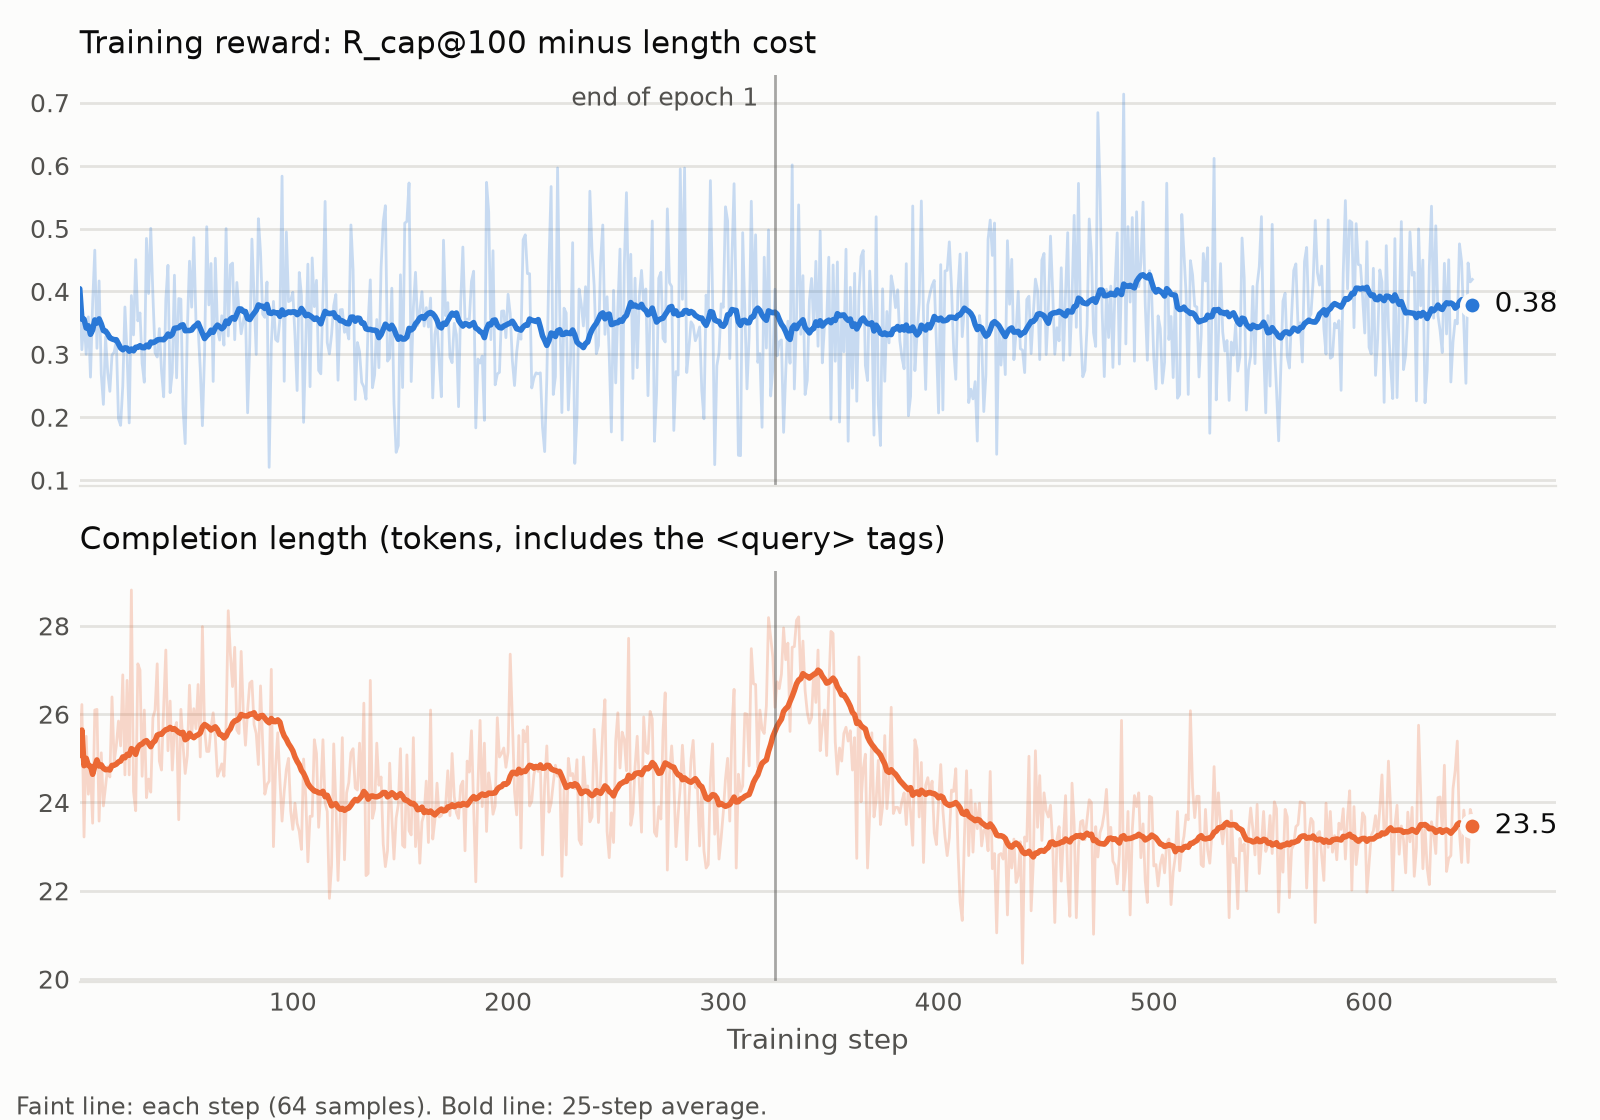
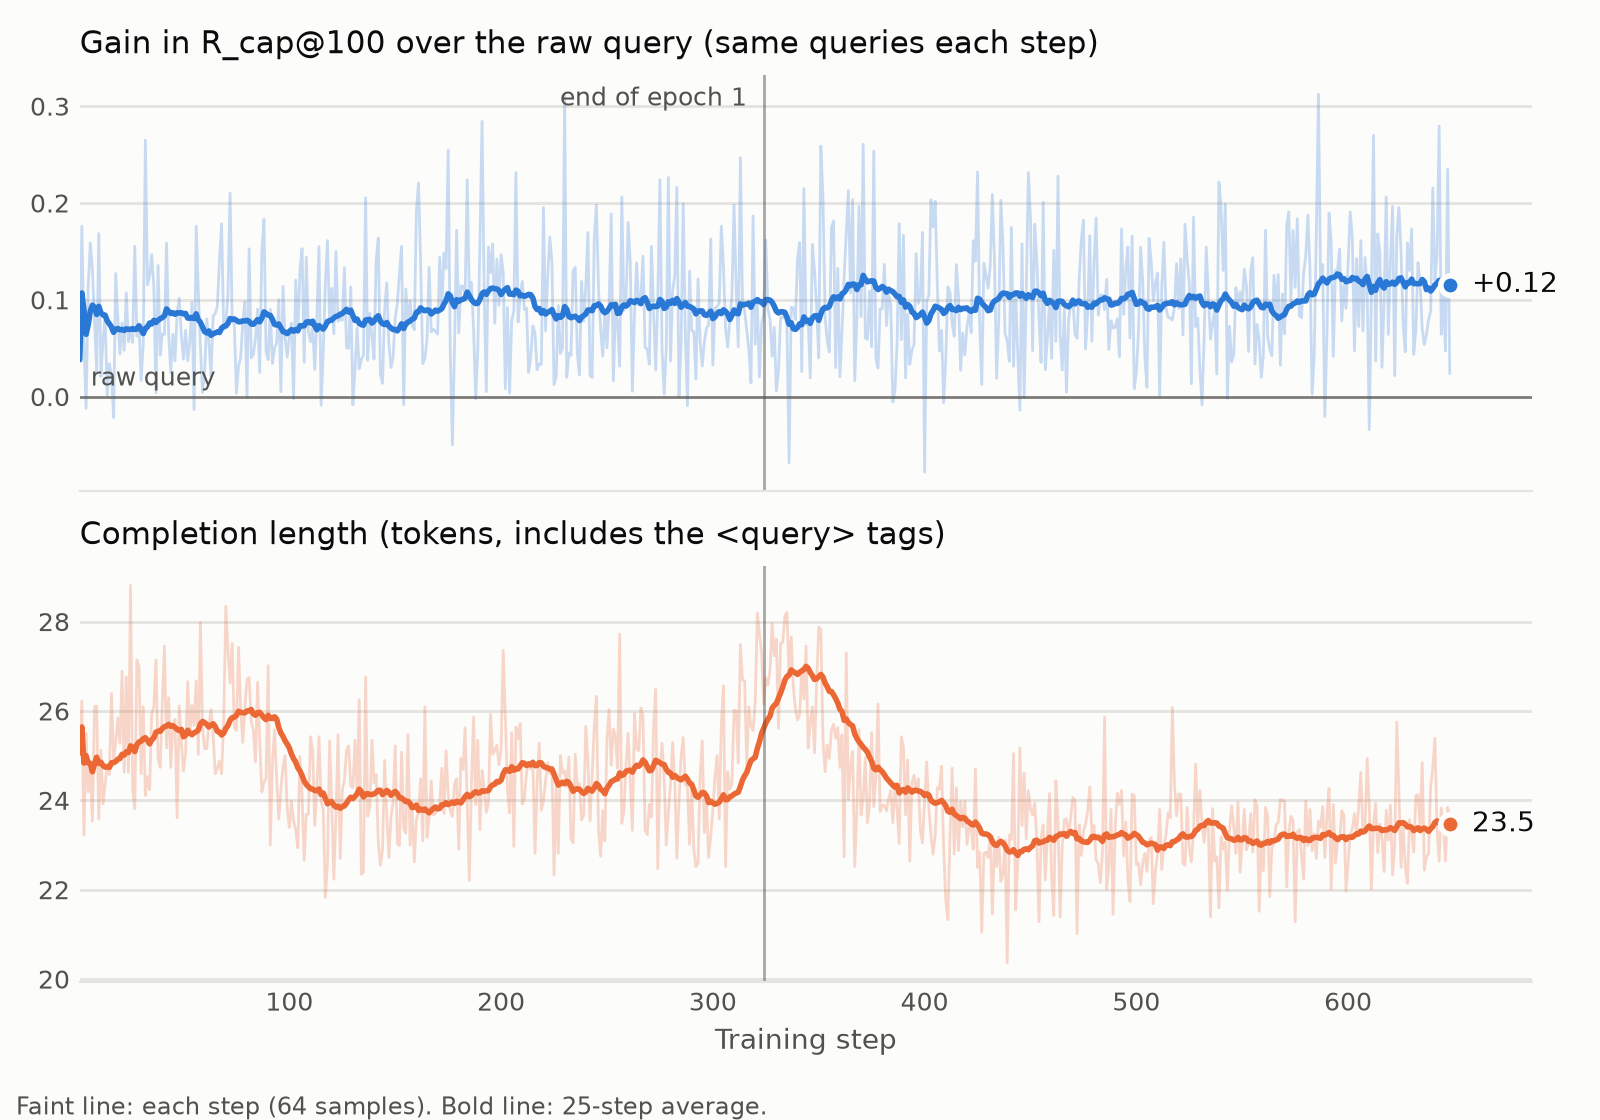
Plot the gain over the raw query in the training curve

diff --git a/eval/plot_training.py b/eval/plot_training.py
@@ -1,9 +1,11 @@
-"""Training curves for the README: reward and completion length per step, from the files a training run writes.
+"""Training curves for the README: gain in R_cap@100 over the raw query, and completion length, per step.
 
     python -m eval.plot_training --run q1.7b_rcap100_lr2e-5_G8_r1_s1_2ep
 
 Reads results/train/<run>/reward_metrics.jsonl and log_history.json; writes diagrams/training_curve.png.
-Each step's value is the mean over that step's 64 samples, so the raw line is noisy; the bold line is a trailing average.
+Each step uses different queries, so the raw reward mostly shows how hard that step's queries were. The gain over the
+raw query is measured on the same queries, which cancels that. Each step's value is the mean over its 64 samples, so the
+faint line is noisy; the bold line is a trailing average.
 """
 import argparse
 import json
@@ -25,14 +27,14 @@ def trailing_mean(x: np.ndarray, window: int) -> np.ndarray:
 
 
 def load_curves(run_dir: Path) -> dict[str, np.ndarray]:
-    """Per-step reward and mean completion length (tokens, including the <query> tags and end token)."""
+    """Per-step R_cap@100 gain over the raw query, and mean completion length (tokens, incl. the <query> tags)."""
     rows = [json.loads(line) for line in (run_dir / "reward_metrics.jsonl").read_text().splitlines() if line]
     logs = [d for d in json.loads((run_dir / "log_history.json").read_text()) if "loss" in d]
-    reward = np.array([r["reward_mean"] for r in rows])
+    gain = np.array([r["rcap100_gain_over_raw"] for r in rows])
     length = np.array([d["completions/mean_length"] for d in logs])
-    if len(reward) != len(length):
-        raise ValueError(f"{len(reward)} reward rows but {len(length)} trainer log rows in {run_dir}")
-    return dict(step=np.arange(1, len(reward) + 1), reward=reward, length=length)
+    if len(gain) != len(length):
+        raise ValueError(f"{len(gain)} reward rows but {len(length)} trainer log rows in {run_dir}")
+    return dict(step=np.arange(1, len(gain) + 1), gain=gain, length=length)
 
 
 def draw(curves: dict[str, np.ndarray], out: Path, window: int = 25, epoch_step: int | None = None) -> None:
@@ -42,7 +44,7 @@ def draw(curves: dict[str, np.ndarray], out: Path, window: int = 25, epoch_step:
     import matplotlib.pyplot as plt
 
     fig, axes = plt.subplots(2, 1, figsize=(8, 5.6), sharex=True, facecolor=SURFACE)
-    panels = [("reward", "Training reward: R_cap@100 minus length cost", BLUE, "{:.2f}"),
+    panels = [("gain", "Gain in R_cap@100 over the raw query (same queries each step)", BLUE, "{:+.2f}"),
               ("length", "Completion length (tokens, includes the <query> tags)", ORANGE, "{:.1f}")]
     for ax, (key, title, color, fmt) in zip(axes, panels):
         y, smooth = curves[key], trailing_mean(curves[key], window)
@@ -55,6 +57,9 @@ def draw(curves: dict[str, np.ndarray], out: Path, window: int = 25, epoch_step:
                     va="center", color=INK, fontsize=10)
         if epoch_step:
             ax.axvline(epoch_step, color=INK_2, linewidth=1, alpha=0.5)
+        if key == "gain":  # the raw query is the baseline: zero gain
+            ax.axhline(0, color=INK_2, linewidth=1, alpha=0.7)
+            ax.annotate("raw query", (x[0], 0), xytext=(4, 4), textcoords="offset points", color=INK_2, fontsize=9)
         ax.set_title(title, loc="left", color=INK, fontsize=11, pad=8)
         ax.grid(axis="y", color=GRID, linewidth=1)
         ax.set_axisbelow(True)

diff --git a/README.md b/README.md
@@ -55,9 +55,11 @@ R = -0.1                                                               otherwise
 | Stack | Unsloth 2026.10.6, TRL 0.22.2, vLLM 0.15.1, transformers 4.57.6 |
 | Hardware | one NVIDIA A30 (24 GB); about 45 minutes for the full run, about 12 GB peak GPU memory |
 
-Training curves for the full run. Each step's value is the mean over its 64 samples, so the per-step line is
-noisy; the bold line is a 25-step average. The average reward rises modestly (0.345 over the first 108 steps,
-0.373 over the last 108) and completions stay short.
+Training curves for the full run. Top: the gain in R_cap@100 over the raw query, measured on the same queries at each
+step. It averages +0.076 over the first 108 steps and +0.110 over the last 108. About +0.08 of the early level is
+the few-shot prompt before any training, so training adds roughly +0.03. Bottom: completion length, which stays
+short. Each step's value is the mean over its 64 samples, so the faint line is noisy; the bold line is a 25-step
+average.
 
 ![Training curves](diagrams/training_curve.png)
 
